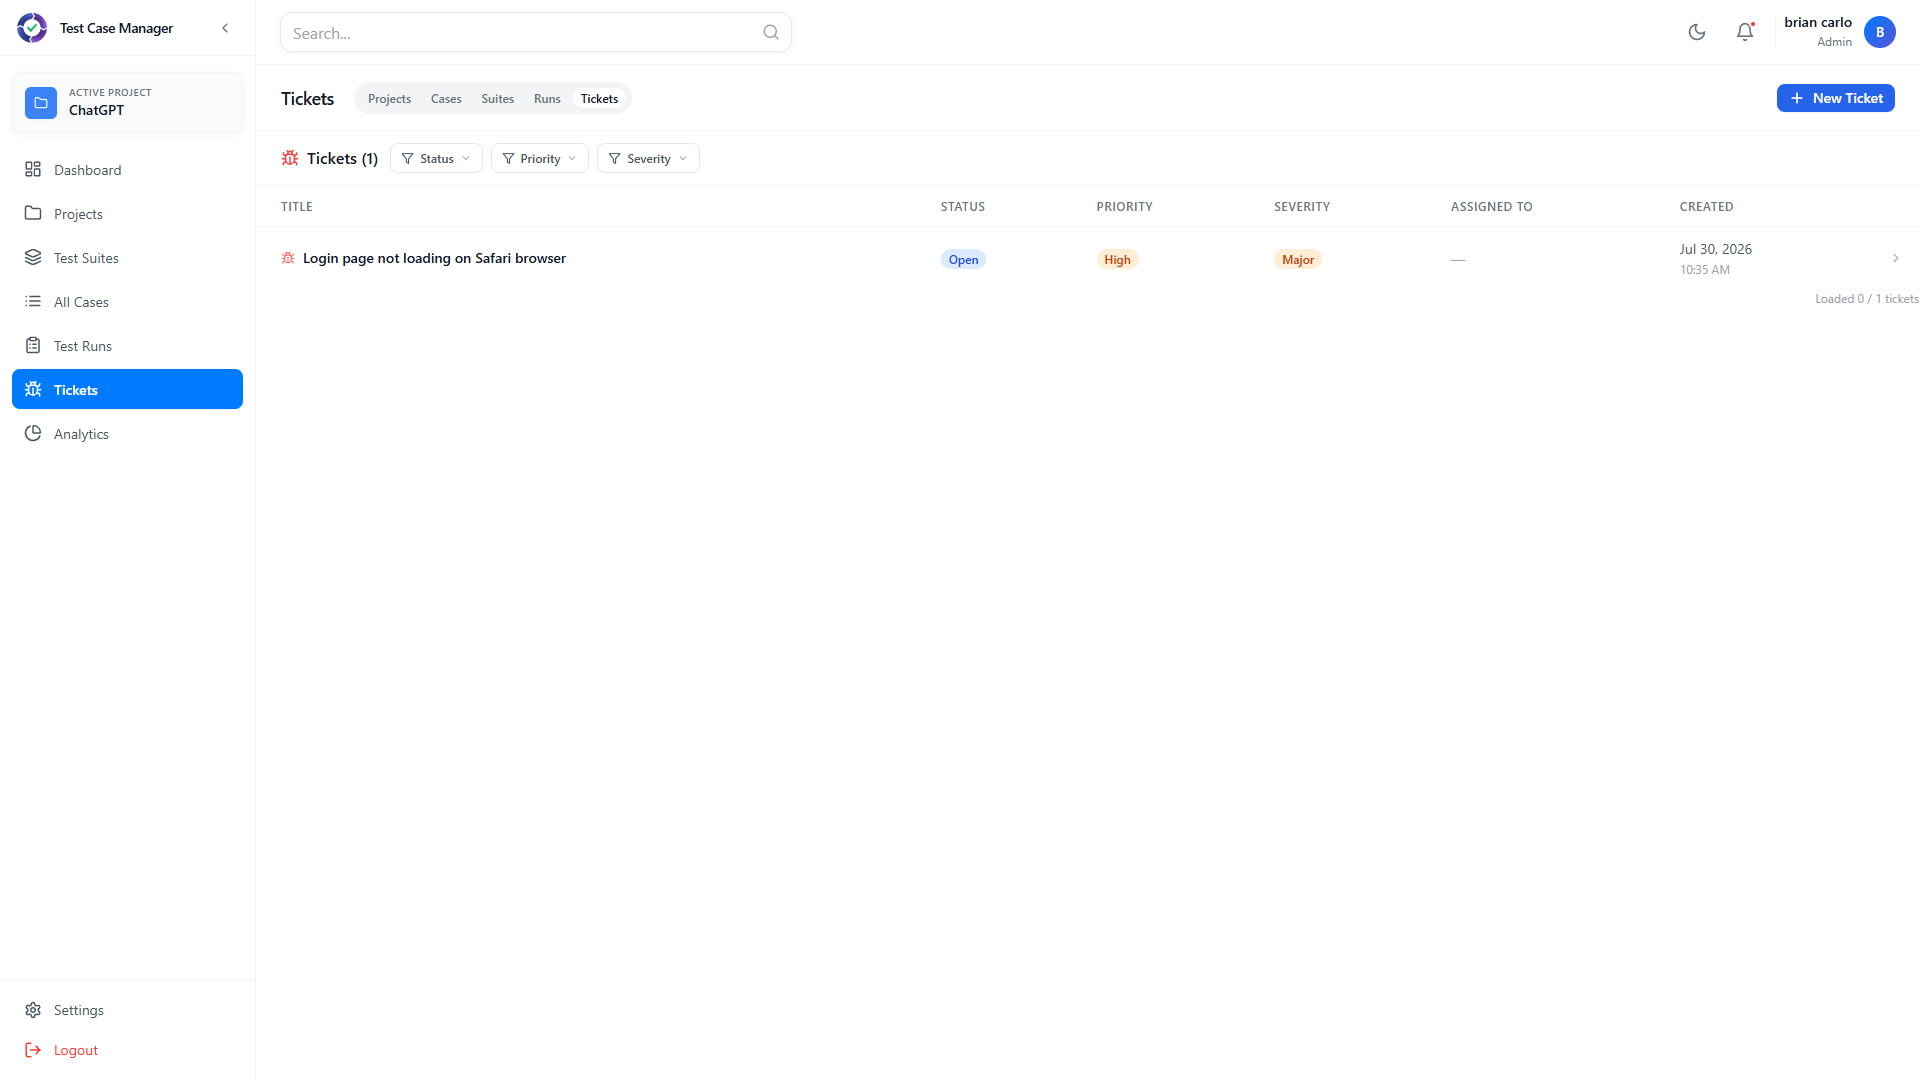
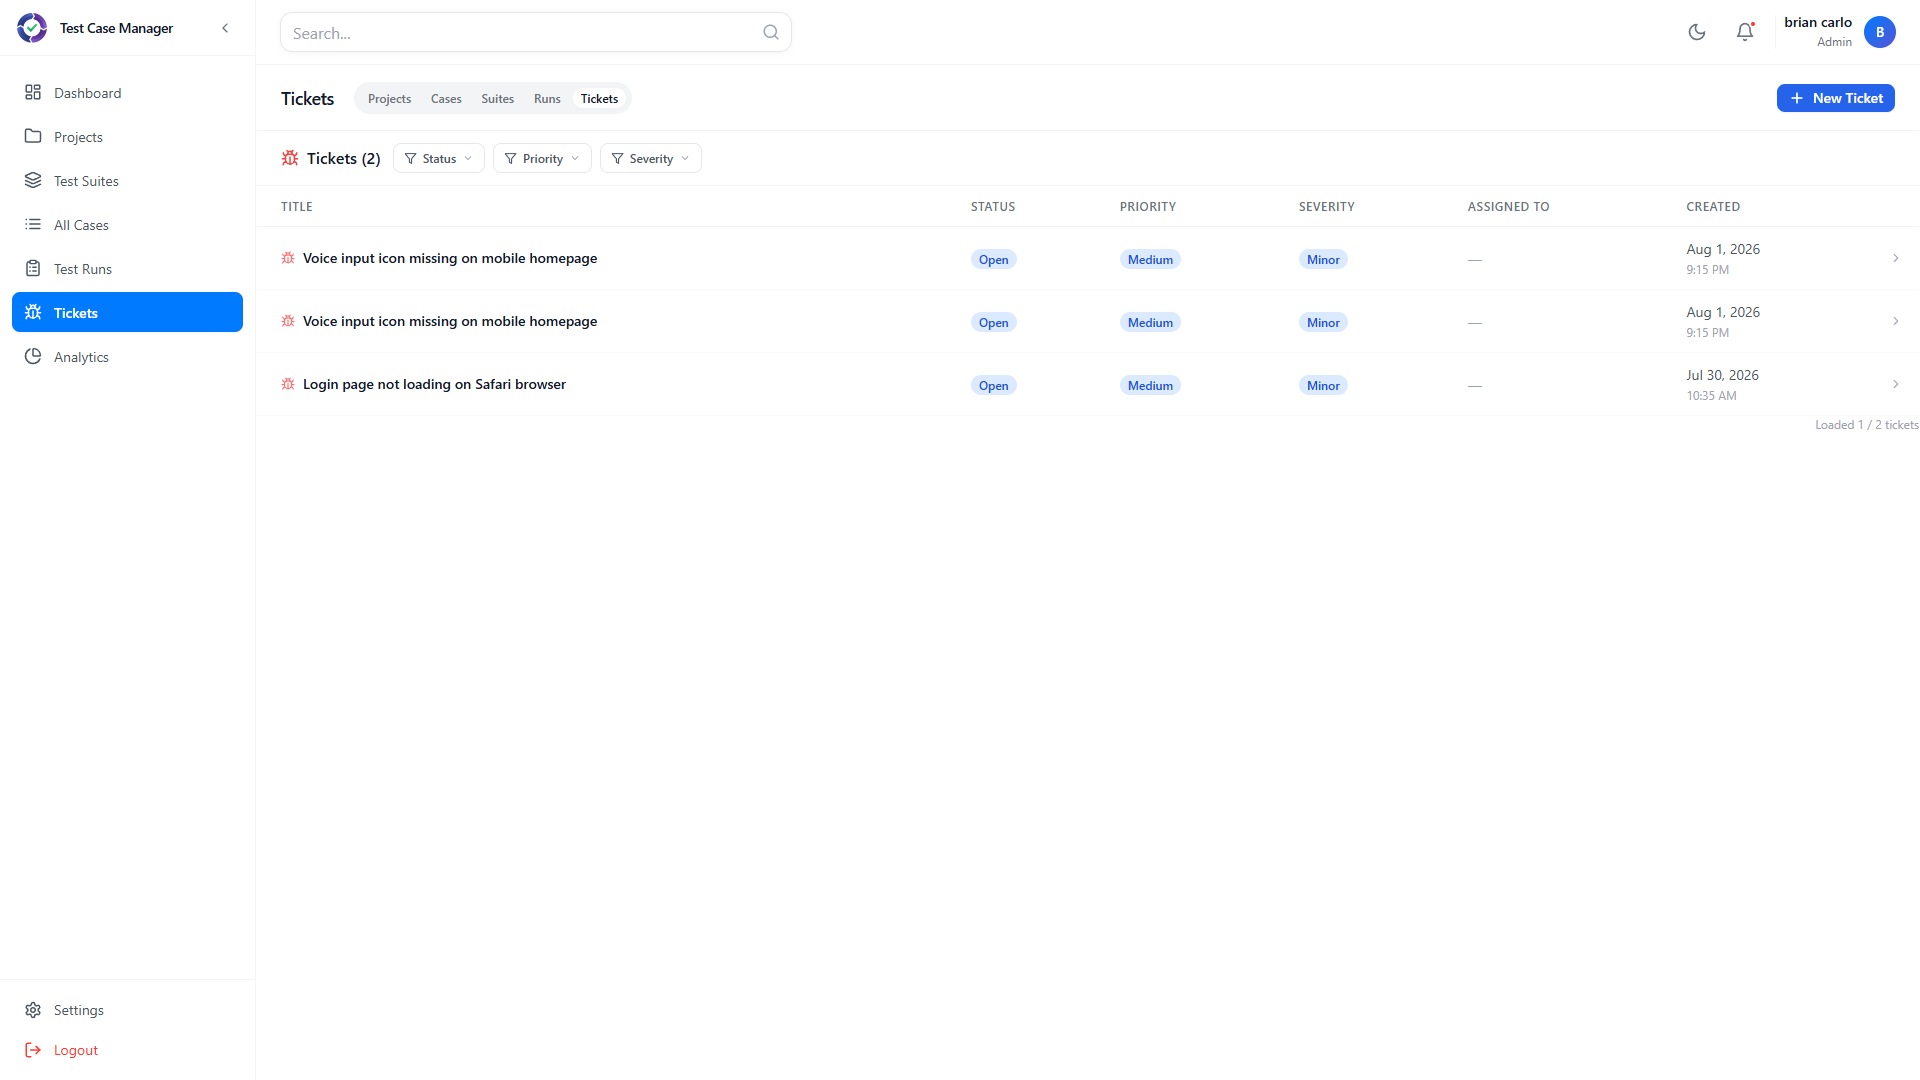
docs: update screenshots and README to cover test runs and ticket workflows

diff --git a/README.md b/README.md
@@ -34,9 +34,10 @@ A full-stack **test case management system** built with the MERN stack (MongoDB,
 - 📝 **Test Cases** – Create, edit, clone, and bulk-manage test cases with priority, status, steps, and expected results
 - ⚡ **Virtualized Tables** – TanStack React Virtual keeps large test case lists fast and responsive
 - 🚀 **Test Runs** – Execute test cases, track results (Pass/Fail/Blocked/Skipped), and record actual outcomes
+- 🎫 **Tickets & Discussions** – Track bugs with full lifecycle management and thread comments on cases and tickets
 - 📊 **Reports & Analytics** – Visual dashboards with execution statistics, pass rates, and trend analysis
 - 👥 **Real-Time Collaboration** – Google Docs-style live editing with presence indicators via Socket.io
-- 🤖 **AI-Powered Generation** – Generate test cases automatically using Gemini AI
+- 🤖 **Multi-Provider AI Generation** – Generate test cases automatically using Gemini, OpenAI, OpenRouter, Anthropic, or DeepSeek
 - 🔐 **Secure Authentication** – JWT-based auth with email/password and Google OAuth 2.0
 
 ### Installation
@@ -66,26 +67,40 @@ This project covers:
 ### Test Management Features
 
 -   📁 **Projects** – Create and manage testing projects with custom fields and member collaboration
+-   👥 **Project Members** – Add/remove members who share access to a project
+-   ⚙ **Project Settings** – Hide default fields/columns and define custom fields (text, long text, dropdown, rich text) per project
 -   📂 **Test Suites** – Organize test cases into logical groupings within projects
--   📝 **Test Cases** – Full CRUD with priority, status, steps, expected results, and custom fields
+-   📝 **Test Cases** – Full CRUD with priority, status, steps, expected results, custom fields, areas, tags, and assigned testers
 -   🔄 **Bulk Operations** – Clone, move, delete, and reorder multiple test cases at once
+-   📥 **Import Test Cases** – Bulk import test cases from CSV/Excel, with or without creating a suite
+-   📤 **Export Test Cases** – Export test cases with selectable columns to CSV/Excel
 -   🚀 **Test Runs** – Execute test cases and record Pass/Fail/Blocked/Skipped results
--   📊 **Reports & Analytics** – Visual dashboards with execution statistics and trends
--   🤖 **AI Generation** – Generate test cases automatically using Gemini AI
--   📜 **History Tracking** – Full audit trail of test case changes with snapshots
+-   🏃 **Run Execution Wizard** – Step-by-step guided execution with pass/fail/skip/retry; failing an item prompts instant bug-ticket creation
+-   📁 **Run Groups** – Organize test runs into nested, color-coded groups (children reparent on group deletion)
+-   🏷 **Tags & Environments** – Tag test runs and track execution environments (staging, production, etc.)
+-   ⏱ **Run Item Details** – Track time spent, attachments, assignees, and execution timestamps per test run item
+-   🎫 **Tickets** – Bug/defect tracking with status, priority, severity, assignee, tags, attachments, and links to related run items
+-   💬 **Discussions** – Threaded comments on test cases and tickets with fix-state tracking and attachments
+-   ⚙ **System Messages** – Run item executions and ticket status changes automatically post status updates to discussions
+-   📊 **Reports & Analytics** – Visual dashboards with execution statistics, trends, suite comparisons, and test case health (flaky tests, never executed); exportable to CSV/PDF
+-   📈 **Dashboard Statistics** – Aggregated project overview stats via `/api/statistics`
+-   🖼 **Rich Text Editing** – Tiptap-based WYSIWYG editor with image uploads to S3-compatible storage
+-   🤖 **AI Generation** – Generate test cases automatically from **multiple AI providers**: Gemini, OpenAI, OpenRouter, Anthropic Claude, and DeepSeek
+-   📜 **History Tracking** – Full audit trail of test case changes with snapshots, viewable and **restorable** to any previous version
 
 ### Real-Time Collaboration
 
 -   📡 **WebSocket Integration** – Socket.io for instant updates across all clients
--   👥 **Live Presence** – See who's viewing and editing in real-time
--   ✏ **Collaborative Editing** – Google Docs-style field-level live editing
+-   👥 **Live Presence** – See who's viewing and editing in real-time (projects, test cases, and tickets)
+-   ✏ **Collaborative Editing** – Google Docs-style field-level live editing for test cases and tickets
 -   🔄 **Automatic Sync** – UI updates instantly when team members make changes
+-   💬 **Real-Time Discussions** – New/updated/deleted discussion messages broadcast instantly
 
 ### Authentication Features
 
--   � **Email/Password Auth** - User registration with password hashing and JWT
--   📧 **Email Verification** - Mailtrap integration with OTP-style verification
--   🔄 **Password Reset Flow** - Secure forgot/reset password via email
+-   🔑 **Email/Password Auth** - User registration with password hashing and JWT
+-   📧 **Email Verification** - Mailtrap integration with OTP-style verification (24h token validity, 5-min resend cooldown)
+-   🔄 **Password Reset Flow** - Secure forgot/reset password via email (1-hour token expiry)
 -   🔒 **Change Password** - Update password for logged-in users
 -   🌐 **Google OAuth 2.0** - One-click sign in with Google
 -   🛡 **CSRF Protection** - State parameter validation for OAuth
@@ -100,18 +115,30 @@ This project covers:
 -   📝 **Test Cases Page** - Table view with inline editing and bulk operations
 -   ⚡ **Virtualized Table** - TanStack React Virtual keeps large lists responsive
 -   🚀 **Test Runs Page** - Execute tests and record results
+-   🎫 **Tickets Page** - Track and manage bugs/defects linked to runs
 -   📊 **Reports Page** - Analytics dashboards and execution statistics
 -   🏠 **Dashboard** - Overview with quick actions and recent activity
--   ⚙ **Settings Page** - Profile, security, and preferences
+-   📈 **Analytics Page** - Interactive charts with Recharts
+-   ⚙ **Settings Page** - Profile, security, AI provider preferences, and API key management
+-   🧠 **AI Generation Modal** - Stream test cases from Gemini, OpenAI, OpenRouter, Anthropic, or DeepSeek with per-provider model selection
+-   🎛 **Filtering** - Filter modal for narrowing down test cases and tickets
+-   📄 **Report Export** - Download analytics as CSV or print-to-PDF
+-   📄 **Pagination** - Paginated case/run/ticket lists and infinite scroll on projects
+-   🧷 **Deep Links** - Shareable URLs for specific test cases, runs, run groups, and tickets
+-   🖼 **Rich Text Editor** - Tiptap editor with S3-backed image uploads (test descriptions, steps, discussions)
+-   🗑 **Type-to-Confirm Deletion** - Typing confirms destructive actions
 -   🎨 **Modern UI** - Tailwind CSS with Framer Motion animations
+-   🌙 **Dark Mode** - Light/dark theme toggle
 -   📱 **Responsive Design** - Works on desktop and mobile
 -   🎯 **State Management** - Zustand for global state
 -   🔔 **Toast Notifications** - User feedback with react-hot-toast
+-   📦 **Code Splitting** - Lazy-loaded routes and error boundaries
 
 ### Developer Experience
 
 -   📚 **Comprehensive Documentation** - Detailed guides for adding new features
--   🧪 **Testing Setup** - Jest with unit and integration test examples
+-   🧪 **Backend Testing** - Jest + Supertest with unit, integration, and service tests (mongodb-memory-server)
+-   🧪 **Frontend Testing** - Vitest + Testing Library for components and flows
 -   🔍 **Type Safety** - Full TypeScript coverage on frontend and backend
 -   📖 **Feature Guide** - Step-by-step instructions in `Documentation/ADDING_FEATURES.md`
 -   📡 **Real-Time Architecture** - Socket.io patterns documented in `Documentation/REALTIME_ARCHITECTURE.md`
@@ -167,6 +194,34 @@ ALLOWED_ORIGINS=http://localhost:5173
 # Frontend URL (deprecated - use ALLOWED_ORIGINS instead)
 # Kept for backward compatibility
 CLIENT_URL=http://localhost:5173
+
+# Encryption key for AI provider API key storage (must be 32 characters)
+ENCRYPTION_KEY=your_32_char_encryption_key_here
+
+# Optional: OpenRouter request identification headers (sent to OpenRouter)
+#OPENROUTER_HTTP_REFERER=https://your-app.com
+#OPENROUTER_TITLE=Test Case Manager
+
+# Optional: Mailtrap template UUID for welcome emails (falls back to local HTML)
+#MAILTRAP_WELCOME_TEMPLATE_UUID=your_mailtrap_template_uuid
+
+# S3-Compatible Storage (Cloudflare R2, AWS S3, MinIO, etc.)
+# Required for image uploads in the rich text editor
+S3_ACCESS_KEY_ID=your_s3_access_key_id
+S3_SECRET_ACCESS_KEY=your_s3_secret_access_key
+# For Cloudflare R2: https://ACCOUNT_ID.r2.cloudflarestorage.com
+S3_ENDPOINT=https://your-account-id.r2.cloudflarestorage.com
+S3_BUCKET_NAME=your-bucket-name
+# For Cloudflare R2 use 'auto', for AWS S3 use your region (e.g., 'us-east-1')
+S3_REGION=auto
+# Optional: Public URL for uploaded files (falls back to S3_ENDPOINT/S3_BUCKET_NAME/key)
+S3_PUBLIC_URL=https://your-custom-domain.com
+
+# Optional: Custom DNS servers for development (defaults to 1.1.1.1,8.8.8.8)
+#DNS_OVERRIDE_SERVERS=1.1.1.1,8.8.8.8
+
+# Optional: cookie domain for auth cookies (e.g., .example.com)
+#COOKIE_DOMAIN=
 ```
 
 Production / Render example (use your actual domain):
@@ -436,6 +491,60 @@ All API endpoints are prefixed with `/api`. Authentication endpoints are under `
 - `GET /api/auth/google/url` - Get Google OAuth URL
 - `GET /api/auth/google/callback` - Handle Google OAuth callback
 
+### Test Case Management
+
+**Projects** (`/api/projects`)
+- `POST /` - Create project · `GET /` - List projects · `GET /:id` - Get project
+- `PUT /:id` - Update project · `DELETE /:id` - Delete project
+- `POST /:id/members` - Add member · `DELETE /:id/members/:memberId` - Remove member
+- `GET /:id/settings` / `PUT /:id/settings` - Get/update project settings (custom fields, hidden fields/columns)
+- `DELETE /:id/settings/custom-fields/:fieldId` - Permanently delete custom field data
+
+**Test Suites** (`/api/projects/:projectId/suites`, `/api/suites`)
+- `POST /` / `GET /` - Create/list suites within a project
+- `GET /:id` / `PUT /:id` / `DELETE /:id` - Suite CRUD
+
+**Test Cases** (`/api/projects/:projectId/cases`, `/api/suites/:suiteId/cases`, `/api/cases`)
+- `POST /` / `GET /` - Create/list test cases in a suite
+- `GET /areas` - List distinct areas · `POST /bulk-import` - Bulk import (CSV/Excel, optionally creating a suite)
+- `PATCH /reorder` - Reorder test cases
+- `GET /:id` / `PUT /:id` / `DELETE /:id` - Test case CRUD · `POST /:id/clone` - Clone a test case
+- `PATCH /bulk-status` - Bulk status update · `DELETE /bulk` - Bulk delete
+
+**Test Runs** (`/api/projects/:projectId/runs`, `/api/runs`)
+- `POST /` / `GET /` - Create/list runs · `GET /tags` - List distinct tags
+- `GET /:id` / `PUT /:id` / `DELETE /:id` - Run CRUD
+- `PATCH /:id/items/:itemId` - Update run item (status, actual result, time spent, attachments)
+- `PATCH /:id/reorder` - Reorder run items · `POST /:id/clone` - Clone a run · `POST /:id/complete` - Complete a run
+
+**Run Groups** (`/api/projects/:projectId/run-groups`, `/api/run-groups`)
+- `POST /` / `GET /` - Create/list run groups · `GET /:id` / `PUT /:id` / `DELETE /:id` - Group CRUD
+
+**Tickets** (`/api/projects/:projectId/tickets`, `/api/tickets`)
+- `POST /` / `GET /` - Create/list tickets · `GET /by-run/:runId` - Tickets linked to a run
+- `GET /:id` / `PUT /:id` / `DELETE /:id` - Ticket CRUD
+
+**Discussions** (`/api/cases/:testCaseId/discussions`, `/api/tickets/:ticketId/discussions`)
+- `GET /` / `POST /` - List/create messages
+- `DELETE /:messageId` - Delete a message · `PATCH /:messageId/fix-state` - Update fix-state
+
+### AI Test Generation
+
+Per-provider endpoints (all protected; keys are encrypted at rest and per-user):
+- `POST /api/gemini/key` · `GET /api/gemini/settings` · `GET /api/gemini/models`
+- `POST /api/gemini/generate` · `POST /api/gemini/generate-stream`
+- Same pattern for `/api/openrouter`, `/api/openai`, `/api/anthropic`, `/api/deepseek`
+
+### Reports, Statistics & Uploads
+
+- `GET /api/statistics` - Dashboard overview statistics
+- `GET /api/reports/project/:projectId/summary` - Project summary report
+- `GET /api/reports/project/:projectId/trends` - Time-series trend data (day/week/month)
+- `GET /api/reports/project/:projectId/suite-comparison` - Suite pass-rate comparison
+- `GET /api/reports/project/:projectId/test-case-health` - Flaky/never-executed/most-failing cases
+- `GET /api/reports/run/:runId/detailed` - Detailed run report
+- `POST /api/upload/presigned-url` - Generate presigned URL for image upload (S3-compatible storage)
+
 ## 🛠 Technologies Used
 
 ### Backend
@@ -448,6 +557,9 @@ All API endpoints are prefixed with `/api`. Authentication endpoints are under `
 - **google-auth-library** - Google OAuth
 - **cookie-parser** - Cookie handling
 - **cors** - Cross-origin resource sharing
+- **Socket.io** - Real-time collaboration
+- **@aws-sdk/client-s3** - S3-compatible image uploads (Cloudflare R2, AWS S3, MinIO)
+- **AI SDKs** - Gemini, OpenAI, OpenRouter, Anthropic, DeepSeek (streaming + encrypted key storage)
 
 ### Frontend
 - **React** - UI library
@@ -459,6 +571,11 @@ All API endpoints are prefixed with `/api`. Authentication endpoints are under `
 - **TanStack React Virtual** - Virtualized lists/tables
 - **React Hot Toast** - Notifications
 - **Lucide React** - Icons
+- **Socket.io Client** - Real-time updates
+- **Recharts** - Analytics charts
+- **Tiptap** - Rich text editor
+- **PapaParse / SheetJS (xlsx)** - CSV/Excel import & export
+- **@dnd-kit** - Drag-and-drop reordering
 
 ## 🔐 Security Features
 
@@ -471,6 +588,7 @@ All API endpoints are prefixed with `/api`. Authentication endpoints are under `
 - ✅ Protected API routes
 - ✅ Input validation
 - ✅ Google OAuth 2.0 with state parameter
+- ✅ API rate limiting on test run, ticket, and upload routes
 
 ## 📝 Additional Notes
 

diff --git a/Documentation/SCREENSHOTS.md b/Documentation/SCREENSHOTS.md
@@ -1,6 +1,6 @@
 # Screenshots
 
-This page documents the full application end-to-end flow using the **ChatGPT** project and **ChatGPT Homepage** test suite.
+This page documents the full application end-to-end flow using the **ChatGPT** project and **ChatGPT Homepage** test suite. The walkthrough covers creating a test case, executing it in a test run, failing it, and verifying the failure automatically creates a linked ticket.
 
 ## 1. Dashboard
 
@@ -18,58 +18,106 @@ The projects page lists all testing projects. The **ChatGPT** project is selecte
 
 ![Test Suites](../screenshots/03-suites.png)
 
-Inside the ChatGPT project, the test suites page shows available suites. **ChatGPT Homepage** contains 10 test cases.
+Inside the ChatGPT project, the test suites page shows available suites. **ChatGPT Homepage** is the suite used throughout this flow.
 
 ## 4. Test Cases (List View)
 
 ![Test Cases](../screenshots/04-cases.png)
 
-The test cases page lists all 10 cases within the ChatGPT Homepage suite, with ID, title, priority, status, dates, and assignee.
+The test cases page lists all cases within the ChatGPT Homepage suite, with ID, title, priority, status, dates, and assignee.
 
-## 5. Test Case View Modal
+## 5. New Case Creation Form
 
-![Test Case View](../screenshots/05-test-case-view.png)
+![New Case Form](../screenshots/05-new-case-form.png)
 
-Clicking a test case row opens the view modal with full details: title, assignee, priority, status, test description, test steps, expected result, and a discussion panel with execution history.
+Clicking "New Case" opens the creation form with fields for title, project, suite, assignee, priority, status, page/area, test description, test steps, expected result, and comments.
 
-## 6. New Case Creation Form
+## 6. Filled Case Creation Form
 
-![New Case Form](../screenshots/06-new-case-form.png)
+![Filled Case Form](../screenshots/06-new-case-filled.png)
 
-Clicking "New Case" opens the creation form with fields for title, project, suite, assignee, priority, status, page/area, test description, test steps, expected result, and comments. Changes are saved automatically.
+The filled form for **Verify ChatGPT homepage loads in desktop browser**, with a description, numbered test steps, and an expected result demonstrating the complete case creation workflow.
 
-## 7. Filled Case Creation Form
+## 7. Case Created
 
-![Filled Case Form](../screenshots/07-new-case-filled.png)
+![Case Created](../screenshots/07-case-created.png)
 
-The filled form with a title, description, priority set to **High**, and page/area specified, demonstrating the complete case creation workflow.
+The new test case appears at the top of the cases list, ready for execution.
 
-## 8. Tickets (Empty State)
+## 8. Test Runs
 
-![Tickets](../screenshots/08-tickets.png)
+![Test Runs](../screenshots/08-test-runs.png)
+
+The test runs page lists execution runs for the project, including the **ChatGPT Homepage - Jul-30-2026 09:44** run used in this walkthrough.
+
+## 9. Run Detail
+
+![Run Detail](../screenshots/09-run-detail.png)
+
+The run detail view shows the run metadata (status, pass rate, progress) and the test cases assigned to the run.
+
+## 10. Run Execution
+
+![Run Execution](../screenshots/10-run-execution.png)
+
+Clicking a case row opens the execution panel where each case can be marked **Passed** or **Failed**.
+
+## 11. Tickets (Empty State)
+
+![Tickets](../screenshots/11-tickets.png)
 
 The tickets page for the ChatGPT project initially shows an empty state with a prompt to create the first ticket.
-
-## 9. Create Ticket Form
-
-![Create Ticket Form](../screenshots/09-ticket-create-form.png)
-
-Clicking "New Ticket" opens a form with fields for title, status, priority, severity, assignee, description, and tags.
-
-## 10. Filled Ticket Form
-
-![Filled Ticket Form](../screenshots/10-ticket-create-filled.png)
-
-Entering a ticket title and configuring options.
-
-## 11. Complete Ticket Details
-
-![Complete Ticket Details](../screenshots/11-ticket-form-complete.png)
-
-Full ticket details with priority set to **High** and severity set to **Major**.
 
 ## 12. Ticket Created
 
 ![Ticket Created](../screenshots/12-ticket-created.png)
 
-The newly created ticket appears in the tickets list, showing the title, status, priority, severity, and assignee.
+A ticket can also be created manually from the tickets page. The new ticket **Voice input icon missing on mobile homepage** appears in the list with status, priority, severity, and assignee.
+
+## 13. Run Failed
+
+![Run Failed](../screenshots/13-run-failed.png)
+
+When a case is marked **Failed** during execution, the run's pass rate updates accordingly. Note: changing status via the table dropdown does not create a ticket.
+
+## 14. Log a Bug Form
+
+![Log a Bug Form](../screenshots/14-log-bug-form.png)
+
+Failing a case through the **Execute Run** modal opens the "Log a bug" form. The title is pre-filled as `[FAIL] <case title>`, tagged `failed-run`, and automatically linked to the test run. Add the actual result and click **Create ticket & continue**.
+
+## 15. After Bug Logged
+
+![After Bug Logged](../screenshots/15-after-bug-logged.png)
+
+After creating the bug, the case is marked **Failed** with its failure details and actual result recorded against the run.
+
+## 16. Ticket Linked to Run
+
+![Ticket Linked to Run](../screenshots/16-ticket-linked-to-run.png)
+
+The ticket `[FAIL] Voice Input Activation` is created automatically from the failed case and shows its related test run (**ChatGPT Homepage - Jul-30-2026 09:44**) in the ticket details.
+
+## 17. E2E Case Created
+
+![E2E Case Created](../screenshots/17-e2e-case-created.png)
+
+For a complete end-to-end walkthrough, a second case **Verify sidebar search filters chat history** is created with detailed test steps.
+
+## 18. E2E Run Created
+
+![E2E Run Created](../screenshots/18-e2e-run-created.png)
+
+A new test run **ChatGPT Homepage - E2E Search Verification** is created with only the new case. The run starts in **Draft** state with a 0% pass rate.
+
+## 19. E2E Log a Bug Form
+
+![E2E Log a Bug Form](../screenshots/19-e2e-log-bug-form.png)
+
+Executing the run and failing the case opens the "Log a bug" form again, this time with priority set to **High** and severity set to **Major**, demonstrating the full fail-to-ticket workflow.
+
+## 20. E2E Ticket Linked
+
+![E2E Ticket Linked](../screenshots/20-e2e-ticket-linked.png)
+
+The ticket `[FAIL] Verify sidebar search filters chat history` is created and linked to the run **ChatGPT Homepage - E2E Search Verification**, completing the end-to-end flow of case creation → run execution → failure → automated ticket creation.
